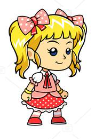
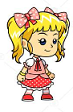
modificaciones en seleccion de personaje

diff --git a/unicen-visualizacion/TP4/EntregaFinal/css/style.css b/unicen-visualizacion/TP4/EntregaFinal/css/style.css
@@ -2022,7 +2022,6 @@ hr {
     }
 }
 
-
 #personajenena {
     background: url(../img/loop/nenacamina4-removebg-preview.png);
     /* background: url(../img/avatar2.png);*/
@@ -2100,7 +2099,6 @@ hr {
     }
 }
 
-
 #saltaPersonajenena {
     background: url(../img/loop/nenasalta-removebg-preview.png);
     /* background: url(../img/avatar2.png);*/
@@ -2120,8 +2118,7 @@ hr {
     100% {
         background-position: -370px;
     }
-} 
-
+}
 
 #saltaPersonajenene {
     background: url(../img/loop/nenesalta-removebg-preview.png);
@@ -2155,7 +2152,6 @@ hr {
         top: 220px;
     }
 }
-
 
 #explosion {
     background: url(../img/loop/tvsea8doggj61-removebg-preview.png);
@@ -2364,44 +2360,58 @@ hr {
     visibility: hidden;
 }
 
-.selectNene{
+.selectNene {
     background: url(../img/loop/neneSelect-removebg-preview.png);
     position: absolute;
-    width: 100px;
-    height: 150px;
+    width: 71px;
+    height: 119px;
     z-index: 5;
-    left: 50px;
-    top: 100px;
+    left: 200px;
+    top: 135px;
 }
 
-.selectNena{
+.selectNena {
     background: url(../img/loop/nenaSelect-removebg-preview.png);
     position: absolute;
-    width: 98px;
-    height: 139px;
+    width: 73px;
+    height: 112px;
     z-index: 5;
-    left: 250px;
-    top: 100px;
+    left: 300px;
+    top: 140px;
 }
 
-.elegirPersona{
-    background-color: #db66b8;
+.elegirPersona {
+    background: url(../img/loop/cartelgrande-removebg-preview.png);
     position: absolute;
     z-index: 6;
-    width: 400px;
-    height: 300px;
-    left: 300px;
-    top: 150px;
+    width: 582px;
+    height: 369px;
+    left: 160px;
+    top: 0px;
 }
 
-.seleccionado{
+.seleccione {
+    top: 100px;
+    left: 140px;
+    position: absolute;
+    z-index: 6;
+    font-family: Verdana, Geneva, Tahoma, sans-serif;
+    color: #292a77;
+}
+
+.seleccionado {
     border: solid 2px red;
 }
-#jugar{
+
+#jugar {
+    position: absolute;
+    top: 270px;
+    left: 240px;
     border-radius: 20px;
     width: 100px;
     height: 50px;
 }
+
 .win {
     background: url(../img/loop/cartelwin-removebg-preview.png);
     position: absolute;

diff --git a/unicen-visualizacion/TP4/EntregaFinal/game-loop.html b/unicen-visualizacion/TP4/EntregaFinal/game-loop.html
@@ -101,8 +101,8 @@
                 <div class="fondo-loop nubes-2"> </div>
                 <div class="fondo-loop arbustos"> </div>
                 <div class="fondo-loop piso"> </div>
-                <div class="elegirPersona"> 
-                    <h2>Seleccione su personaje</h2>
+                <div class="elegirPersona">
+                    <h2 class="seleccione">Seleccione su personaje</h2>
                     <div class="selectNena seleccionado"></div>
                     <div class="selectNene"></div>
                     <button id="jugar">Jugar</button>
